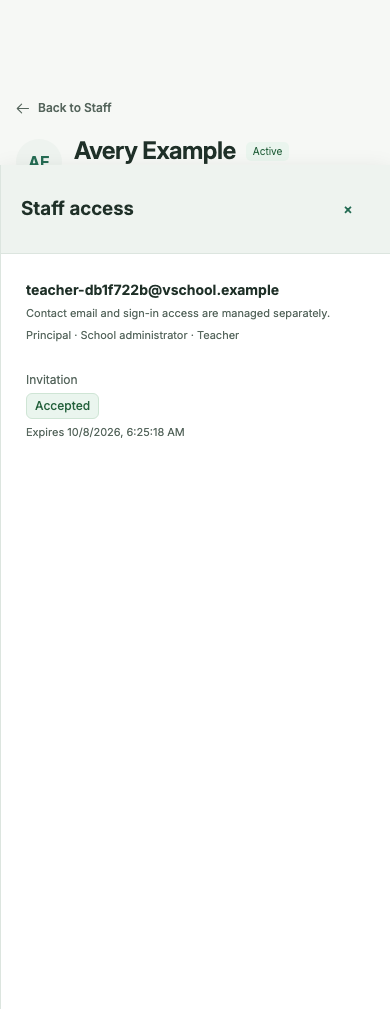
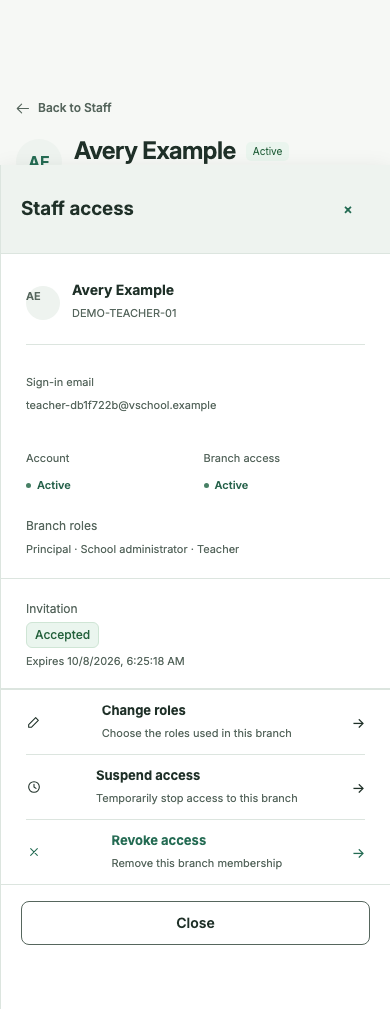
Complete Staff profile access composition

diff --git a/components/staff-portal-management.tsx b/components/staff-portal-management.tsx
@@ -3,16 +3,47 @@
 import {useState} from 'react';
 import type {StaffProfileAccess} from '@/shared/contracts/people';
 import {StaffInvitationManagement} from '@/components/staff-invitation-management';
-import {Button} from '@/components/ui/primitives';
+import {useCommand} from '@/components/access-management';
+import {Checkbox,TextArea} from '@/components/ui/forms';
+import {Avatar,Button,ButtonLink} from '@/components/ui/primitives';
 import {Dialog} from '@/components/ui/interactive';
 
-export function StaffPortalManagement({employeeId,access}:{employeeId:string;access:StaffProfileAccess}){
- const [open,setOpen]=useState(false);
- const trigger=access.state==='NO_ACCOUNT'?'Set up access':access.state==='PENDING'?'View invitation':'View access';
+const roleLabel={SCHOOL_ADMIN:'School administrator',TEACHER:'Teacher',PRINCIPAL:'Principal'} as const;
+type AccessAction='SET_ROLES'|'SUSPEND'|'REINSTATE'|'REVOKE';
+
+export function StaffPortalManagement({employeeId,employeeName,staffNumber,schoolId,access}:{employeeId:string;employeeName:string;staffNumber:string;schoolId:string;access:StaffProfileAccess}){
+ const [open,setOpen]=useState(false),[current,setCurrent]=useState(access),[step,setStep]=useState<'summary'|'change'|'review'>('summary'),[action,setAction]=useState<AccessAction>('SET_ROLES'),[roles,setRoles]=useState([...access.roles]),[reason,setReason]=useState('');
+ async function refresh(){const response=await fetch(`/api/v1/employees/${employeeId}/invitation`,{cache:'no-store'});if(!response.ok)throw new Error('Current staff access could not be loaded.');setCurrent(await response.json());}
+ const command=useCommand(refresh,intent=>`/api/v1/memberships/status/${intent.command}/${intent.key}?schoolId=${encodeURIComponent(schoolId)}`),disabled=command.busy||command.uncertain||command.denied;
+ const trigger=current.state==='NO_ACCOUNT'?'Set up access':current.state==='PENDING'?'View invitation':'View access';
+ const branchState=current.state==='ACTIVE'?'Active':current.state==='SUSPENDED'?'Suspended':current.state==='REVOKED'?'Revoked':current.state==='PENDING'?'Pending':'Linked';
+ const actionTitle=action==='SET_ROLES'?'Change roles':action==='SUSPEND'?'Suspend access':action==='REINSTATE'?'Reinstate access':'Revoke access';
+ const unchangedRoles=[...roles].sort().join('|')===[...current.roles].sort().join('|');
+ function begin(next:AccessAction){command.startNew();setAction(next);setRoles([...current.roles]);setReason('');setStep('change');}
+ function close(){if(command.uncertain)return;setOpen(false);setStep('summary');setReason('');}
+ function toggle(role:'SCHOOL_ADMIN'|'TEACHER',checked:boolean){setRoles(checked?[...new Set([...roles,role])]:roles.filter(item=>item!==role));}
+ async function save(){if(!current.membershipId||current.membershipVersion===null)return;const selectedRoles=action==='SET_ROLES'?roles:undefined,saved=await command.run({url:`/api/v1/memberships/${current.membershipId}?schoolId=${encodeURIComponent(schoolId)}`,method:'PATCH',command:'UpdateMembership',body:{payload:{action,...(selectedRoles?{roles:selectedRoles}:{}),reason},expectedVersion:current.membershipVersion}});if(saved){setStep('summary');setReason('');}}
  return <>
-  <Button variant="ghost" size="small" onClick={()=>setOpen(true)}>{trigger} <span aria-hidden="true">→</span></Button>
-  <Dialog drawer className="staff-reference-drawer staff-portal-drawer" title="Staff access" description="Review this staff member’s current account and invitation state." open={open} onClose={()=>setOpen(false)}>
-   <StaffInvitationManagement employeeId={employeeId} initial={access}/>
+  <Button variant="ghost" size="small" onClick={()=>{setCurrent(access);setStep('summary');setOpen(true);}}>{trigger} <span aria-hidden="true">→</span></Button>
+  <Dialog drawer className="staff-reference-drawer staff-portal-drawer" title={step==='summary'?'Staff access':step==='review'?'Review role changes':actionTitle} description="Review this staff member’s current account and invitation state." open={open} onClose={close}>
+   {step==='summary'?<div className="staff-access-summary staff-profile-access-summary">
+    <div className="staff-access-person"><Avatar name={employeeName}/><div><strong>{employeeName}</strong><span>{staffNumber}</span></div></div>
+    {current.state==='NO_ACCOUNT'?<><p className="muted small">No sign-in account is linked to this staff record.</p><ButtonLink href={`/admin/users/grant?employeeId=${employeeId}`}>Set up access</ButtonLink></>:<>
+     <p className="small muted">Sign-in email</p><p>{current.email}</p>
+     <dl className="staff-access-facts"><div><dt>Account</dt><dd><span className={`quiet-status ${current.state==='ACTIVE'?'good':current.state==='PENDING'?'warn':'none'}`}>{current.state==='PENDING'?'Pending activation':current.state==='REVOKED'?'Revoked':'Active'}</span></dd></div><div><dt>Branch access</dt><dd><span className={`quiet-status ${current.state==='ACTIVE'?'good':current.state==='PENDING'||current.state==='SUSPENDED'?'warn':'none'}`}>{branchState}</span></dd></div></dl>
+     {current.roles.length>0&&<div className="staff-access-roles"><span className="small muted">Branch roles</span><p>{current.roles.map(role=>roleLabel[role]).join(' · ')}</p></div>}
+     <StaffInvitationManagement employeeId={employeeId} initial={current} compact/>
+     {current.membershipId&&current.state!=='REVOKED'&&<div className="staff-access-actions staff-profile-access-actions"><button disabled={disabled} onClick={()=>begin('SET_ROLES')}><svg aria-hidden="true" viewBox="0 0 24 24"><path d="m4 16 10.5-10.5 4 4L8 20H4v-4Z"/></svg><span><strong>Change roles</strong><small>Choose the roles used in this branch</small></span><span aria-hidden="true">→</span></button>{current.state==='SUSPENDED'?<button disabled={disabled} onClick={()=>begin('REINSTATE')}><svg aria-hidden="true" viewBox="0 0 24 24"><circle cx="12" cy="12" r="8"/><path d="M12 8v4l3 2"/></svg><span><strong>Reinstate access</strong><small>Restore this branch membership</small></span><span aria-hidden="true">→</span></button>:<button disabled={disabled} onClick={()=>begin('SUSPEND')}><svg aria-hidden="true" viewBox="0 0 24 24"><circle cx="12" cy="12" r="8"/><path d="M12 8v4l3 2"/></svg><span><strong>Suspend access</strong><small>Temporarily stop access to this branch</small></span><span aria-hidden="true">→</span></button>}<button className="dangerlink" disabled={disabled} onClick={()=>begin('REVOKE')}><svg aria-hidden="true" viewBox="0 0 24 24"><path d="m7 7 10 10M17 7 7 17"/></svg><span><strong>Revoke access</strong><small>Remove this branch membership</small></span><span aria-hidden="true">→</span></button></div>}
+    </>}
+    <div className="drawer-actions"><Button variant="secondary" onClick={close}>Close</Button></div>
+   </div>:step==='change'?<form className="staff-profile-access-form" onSubmit={event=>{event.preventDefault();if(action==='SET_ROLES'){setStep('review');return;}void save();}}>
+    {command.notice}
+    <div className="staff-drawer-person"><Avatar name={employeeName}/><div><strong>{employeeName}</strong><span>{staffNumber}</span></div></div>
+    <p className="staff-access-consequence">{action==='SET_ROLES'?'Review the roles this account will have in this branch.':action==='SUSPEND'?'Sign-in to this branch will be blocked. Employment and teaching assignments remain unchanged.':action==='REINSTATE'?(current.state==='ACTIVE'?'Branch access will become active. Employment is unchanged.':'Branch access will remain pending until the account is activated. Employment is unchanged.'):'Branch access will be removed. The Staff record and other branches are unchanged.'}</p>
+    {action==='SET_ROLES'&&<fieldset><legend>Branch roles</legend><Checkbox label="School administrator" checked={roles.includes('SCHOOL_ADMIN')} disabled={disabled} onChange={event=>toggle('SCHOOL_ADMIN',event.target.checked)}/><Checkbox label="Teacher" checked={roles.includes('TEACHER')} disabled={disabled} onChange={event=>toggle('TEACHER',event.target.checked)}/>{roles.includes('PRINCIPAL')&&<p className="small muted">Principal access is retained and managed through its approved workspace.</p>}</fieldset>}
+    <TextArea label="Reason" required maxLength={500} value={reason} disabled={disabled} onChange={event=>setReason(event.target.value)}/>
+    <div className="drawer-actions"><Button type="button" variant="secondary" disabled={command.busy||command.uncertain} onClick={()=>setStep('summary')}>Back</Button><Button type="submit" loading={command.busy} disabled={disabled||(action==='SET_ROLES'&&(!roles.length||unchangedRoles))||!reason.trim()}>{action==='SET_ROLES'?'Review changes':actionTitle}</Button></div>
+   </form>:<div className="staff-profile-access-review"><div className="staff-drawer-person"><Avatar name={employeeName}/><div><strong>{employeeName}</strong><span>{staffNumber}</span></div></div>{command.notice}<dl className="staff-access-review-facts"><div><dt>Current roles</dt><dd>{current.roles.map(role=>roleLabel[role]).join(' · ')}</dd></div><div><dt>Proposed roles</dt><dd>{roles.map(role=>roleLabel[role]).join(' · ')}</dd></div><div><dt>Reason</dt><dd>{reason}</dd></div></dl><div className="drawer-actions"><Button variant="secondary" disabled={command.busy||command.uncertain} onClick={()=>setStep('change')}>Back</Button><Button loading={command.busy} disabled={disabled} onClick={()=>void save()}>Save</Button></div></div>}
   </Dialog>
  </>;
 }

diff --git a/app/admin/teachers/[id]/page.tsx b/app/admin/teachers/[id]/page.tsx
@@ -6,6 +6,7 @@ import {StaffPortalManagement} from '@/components/staff-portal-management';
 import {StaffAssignmentsAction} from '@/components/staff-profile-actions';
 import {getIdentity} from '@/lib/server/auth';
 import {peopleGateway} from '@/lib/server/people';
+import {accountGateway} from '@/lib/server/access';
 
 export const dynamic='force-dynamic';
 const category=(value:string)=>value==='ADMINISTRATION'?'Administration':value==='SUPPORT'?'Support':value==='UNCLASSIFIED'?'Unclassified':'Teaching';
@@ -13,8 +14,8 @@ const date=(value:string|null)=>value?new Intl.DateTimeFormat('en-GB',{day:'nume
 function safeReturn(value:string|undefined){if(!value)return '/admin/teachers';try{const url=new URL(value,'http://vschool.local');if(url.pathname!=='/admin/teachers')return '/admin/teachers';const output=new URLSearchParams();for(const key of ['q','by','category','categories','employment','employments','sort','order','cursor','limit']){const item=url.searchParams.get(key);if(item)output.set(key,item.slice(0,2048));}return `/admin/teachers${output.size?`?${output}`:''}`;}catch{return '/admin/teachers';}}
 
 export default async function StaffProfilePage({params,searchParams}:{params:Promise<{id:string}>;searchParams:Promise<{returnTo?:string|string[]}>}){
- const identity=await getIdentity(),{id}=await params,query=await searchParams,returnTo=safeReturn(Array.isArray(query.returnTo)?undefined:query.returnTo);let profile:Awaited<ReturnType<typeof peopleGateway.staffProfile>>;
- try{profile=await peopleGateway.staffProfile(identity,id);}catch(error){if(error instanceof AccessError&&error.code==='UNAUTHENTICATED')redirect('/sign-in');if(error instanceof AccessError&&(error.code==='NOT_FOUND'||error.code==='FORBIDDEN'))notFound();return <BrandSurface><main id="main-content" className="container page-space"><Alert tone="danger" title="Staff profile unavailable">Refresh the Staff directory and try again. No access or teaching state has been inferred.</Alert></main></BrandSurface>;}
+ const identity=await getIdentity(),{id}=await params,query=await searchParams,returnTo=safeReturn(Array.isArray(query.returnTo)?undefined:query.returnTo);let profile:Awaited<ReturnType<typeof peopleGateway.staffProfile>>,home:Awaited<ReturnType<typeof accountGateway.getHome>>;
+ try{[profile,home]=await Promise.all([peopleGateway.staffProfile(identity,id),accountGateway.getHome(identity)]);}catch(error){if(error instanceof AccessError&&error.code==='UNAUTHENTICATED')redirect('/sign-in');if(error instanceof AccessError&&(error.code==='NOT_FOUND'||error.code==='FORBIDDEN'))notFound();return <BrandSurface><main id="main-content" className="container page-space"><Alert tone="danger" title="Staff profile unavailable">Refresh the Staff directory and try again. No access or teaching state has been inferred.</Alert></main></BrandSurface>;}
  const active=profile.employee.employment.status==='ACTIVE',academics=profile.academics.status==='AVAILABLE'?profile.academics.value:null,access=profile.access.status==='AVAILABLE'?profile.access.value:null,currentAssignments=academics?.assignments.filter(item=>item.current)??[];
  return <BrandSurface><main id="main-content" className="container page-space"><PageStack className="staff-profile-page">
   <Link className="staff-profile-back" href={returnTo}><svg aria-hidden="true" viewBox="0 0 24 24"><path d="m9 5-7 7 7 7M2 12h18"/></svg>Back to Staff</Link>
@@ -24,7 +25,7 @@ export default async function StaffProfilePage({params,searchParams}:{params:Pro
     <section className="staff-record-section"><SectionHeader title="Personal details"/><dl className="staff-profile-facts"><div><dt>Full name</dt><dd>{profile.person.displayName}</dd></div><div><dt>Contact email</dt><dd>{profile.person.contactEmail??'Not recorded'}</dd></div></dl></section>
     <section className="staff-record-section"><SectionHeader title="Employment"/><dl className="staff-profile-facts"><div><dt>Employee code</dt><dd>{profile.employee.staffNumber}</dd></div><div><dt>Staff category</dt><dd>{category(profile.employee.category)}</dd></div><div><dt>Joining date</dt><dd>{date(profile.employee.employment.from)}</dd></div><div><dt>Employment</dt><dd>{active?'Current':`Ended ${date(profile.employee.employment.to)}`}</dd></div></dl></section>
     <section className="staff-record-section"><SectionHeader title="Teaching assignments" actions={academics?(currentAssignments.length?<StaffAssignmentsAction assignments={currentAssignments} employeeId={id} employeeName={profile.person.displayName} staffNumber={profile.employee.staffNumber} eligibility={academics.eligibility} eligibilityPeriod={academics.eligibilityPeriod}/>:<ButtonLink href={`/admin/teachers/${id}/eligibility`} variant="ghost" size="small">Review eligibility</ButtonLink>):undefined}/>{profile.academics.status==='UNAVAILABLE'?<div className="padded"><p className="muted">Teaching information is unavailable for this branch or your current access.</p></div>:<div className="staff-profile-list">{currentAssignments.map(item=><div key={item.assignmentId}><strong>{item.sectionName} · {item.subjectName}</strong></div>)}{currentAssignments.length===0&&<div><strong>{academics!.eligibility==='ENABLED'?'Eligible to teach':academics!.eligibility==='DISABLED'?'Teaching disabled':'Not enabled for teaching'}</strong><span className="muted small">{academics!.eligibilityPeriod?`${date(academics!.eligibilityPeriod.validFrom)} to ${academics!.eligibilityPeriod.validTo?date(academics!.eligibilityPeriod.validTo):'Current'}`:'No dated eligibility recorded'}</span></div>}</div>}</section>
-    <section id="staff-portal" className="staff-record-access"><span className="staff-portal-symbol" aria-hidden="true"><svg viewBox="0 0 24 24"><circle cx="9" cy="8" r="3"/><path d="M3.5 19c.6-3.8 2.4-5.7 5.5-5.7s4.9 1.9 5.5 5.7M18 8v6M15 11h6"/></svg></span><div><h2>Staff portal</h2><p>{access?.state==='NO_ACCOUNT'?'Not set up':access?.state==='PENDING'?'Invitation pending':access?.state==='ACTIVE'?'Active':access?.state==='SUSPENDED'?'Suspended':access?.state==='REVOKED'?'Revoked':profile.access.status==='UNAVAILABLE'?'Unavailable':'Linked'}</p></div>{profile.access.status==='AVAILABLE'&&<StaffPortalManagement employeeId={id} access={access!}/>}</section>
+    <section id="staff-portal" className="staff-record-access"><span className="staff-portal-symbol" aria-hidden="true"><svg viewBox="0 0 24 24"><circle cx="9" cy="8" r="3"/><path d="M3.5 19c.6-3.8 2.4-5.7 5.5-5.7s4.9 1.9 5.5 5.7M18 8v6M15 11h6"/></svg></span><div><h2>Staff portal</h2><p>{access?.state==='NO_ACCOUNT'?'Not set up':access?.state==='PENDING'?'Invitation pending':access?.state==='ACTIVE'?'Active':access?.state==='SUSPENDED'?'Suspended':access?.state==='REVOKED'?'Revoked':profile.access.status==='UNAVAILABLE'?'Unavailable':'Linked'}</p></div>{profile.access.status==='AVAILABLE'&&<StaffPortalManagement employeeId={id} employeeName={profile.person.displayName} staffNumber={profile.employee.staffNumber} schoolId={home.scope.schoolId} access={access!}/>}</section>
    </div>
    <details className="staff-record-history"><summary>Recent activity</summary>{profile.history.length?<div className="staff-profile-list">{profile.history.map((item,index)=><div key={`${item.kind}-${item.occurredOn}-${index}`}><strong>{item.label}</strong><span className="muted small">{date(item.occurredOn)}</span></div>)}</div>:<p className="padded muted">No recorded People history.</p>}</details>
   </div>

diff --git a/app/globals.css b/app/globals.css
@@ -1704,6 +1704,7 @@ a:focus-visible,button:focus-visible,input:focus-visible,select:focus-visible,te
 .staff-filter-drawer{display:block;min-height:0;padding:0}.staff-drawer-body{padding:26px 28px}.staff-drawer-body fieldset{display:grid;gap:0;margin:0 0 24px;padding:0;border:0}.staff-drawer-body legend{margin:0 0 12px;padding:0 2px;font-size:12px;font-weight:650;line-height:18px}.staff-drawer-body .check-control{min-height:38px;padding:8px 0;font-size:12px;line-height:18px}.staff-drawer-body .radio-group .check-control{min-height:35px}.staff-drawer-body .check-control input{width:16px;height:16px;margin:3px 3px 3px 4px}.staff-drawer-body .radio-group .check-control input{margin:3px 3px 0 5px}.staff-drawer-rule{height:1px;margin:22px 0;background:var(--vs-border)}.staff-filter-drawer>.drawer-actions{justify-content:flex-end;margin:0;padding:18px 28px;border-top:1px solid var(--vs-border);background:var(--vs-surface-subtle)}.staff-filter-drawer>.drawer-actions .btn{width:auto;min-height:36px;padding:7px 13px;border-radius:6px;font-size:13px;font-weight:550;line-height:19.5px}.staff-filter-drawer>.drawer-actions .btn-secondary{border-color:var(--vs-border)}
 .staff-reference-drawer.dialog.drawer{width:min(470px,100vw);max-width:none;border-radius:0}.staff-reference-drawer .drawer-header{min-height:94px;padding:27px 28px 22px;background:var(--vs-surface-subtle)}.staff-reference-drawer .drawer-header h2{font-size:19px;font-weight:650;line-height:28px}.staff-reference-drawer .drawer-close{width:44px;height:44px;min-height:44px;padding:10px;border:0;border-radius:0;background:transparent;flex:0 0 44px}
 .staff-access-drawer .drawer-body,.staff-portal-drawer .drawer-body{overflow-y:auto;padding:25px}.staff-access-drawer form{display:grid;gap:18px}.staff-access-drawer .form-actions{margin:auto -25px -25px;padding:18px 24px;background:var(--vs-surface-subtle);border-top:1px solid var(--vs-border)}
+.staff-profile-access-summary{display:block;padding:0}.staff-profile-access-summary>.staff-access-person{padding-bottom:20px;border-bottom:1px solid var(--vs-border)}.staff-profile-access-summary>.small.muted{margin:20px 0 4px}.staff-profile-access-summary>p:not(.small){margin:0 0 18px}.staff-access-roles{margin:0 0 18px}.staff-access-roles p{margin:4px 0 0}.staff-profile-access-summary>.staff-invitation-management{margin:0 -25px;border-top:1px solid var(--vs-border)}.staff-profile-access-summary>.staff-invitation-management>.alert{margin:18px 25px}.staff-profile-access-summary>.staff-invitation-management>.staff-invitation-state{padding:18px 25px;border-bottom:1px solid var(--vs-border)}.staff-profile-access-summary>.staff-access-actions{margin-inline:-25px;padding-inline:25px}.staff-profile-access-actions>button{display:grid;grid-template-columns:18px minmax(0,1fr) auto}.staff-profile-access-actions>button>svg{width:16px;height:16px;fill:none;stroke:currentColor;stroke-width:1.6;stroke-linecap:round;stroke-linejoin:round}.staff-profile-access-summary>.drawer-actions{margin:0 -25px -25px}.staff-profile-access-form{display:grid;gap:18px;min-height:calc(100dvh - 144px)}.staff-profile-access-form fieldset{display:grid;gap:10px;margin:0;padding:0;border:0}.staff-profile-access-form legend{margin-bottom:10px;font-weight:600}.staff-profile-access-form>.drawer-actions{margin:auto -25px -25px}.staff-access-consequence{margin:0;color:var(--vs-text-muted);font-size:12px;line-height:19px}.staff-profile-access-review{display:flex;min-height:calc(100dvh - 144px);flex-direction:column}.staff-access-review-facts{display:grid;gap:18px;margin:0;padding:20px 0}.staff-access-review-facts dt{margin-bottom:4px;color:var(--vs-text-muted);font-size:11px}.staff-access-review-facts dd{margin:0;font-size:13px;font-weight:600}.staff-profile-access-review>.drawer-actions{margin:auto -25px -25px}
 .quiet-status{display:inline-flex;align-items:center;gap:6px;color:var(--vs-text-muted);font-size:11px;line-height:17px}.quiet-status::before{width:5px;height:5px;flex:0 0 5px;border-radius:50%;background:#85938b;content:""}.quiet-status.good{color:#28634c}.quiet-status.good::before{background:#478065}.quiet-status.warn{color:#8a6126}.quiet-status.warn::before{background:#af843f}.quiet-status.none::before{background:#b6c0b8}
 .staff-profile-page{width:min(100%,884px);gap:0;font-size:14px;line-height:21px}
 .staff-profile-back{display:inline-flex;align-items:center;gap:7px;min-height:30px;margin:0 0 12px;color:var(--vs-text-muted);font-size:12px;font-weight:550;line-height:18px;text-decoration:none}.staff-profile-back svg{width:15px;height:15px;fill:none;stroke:currentColor;stroke-width:1.7;stroke-linecap:round;stroke-linejoin:round}

diff --git a/components/staff-invitation-management.tsx b/components/staff-invitation-management.tsx
@@ -11,7 +11,7 @@ const roleLabel={SCHOOL_ADMIN:'School administrator',TEACHER:'Teacher',PRINCIPAL
 const tone=(state:NonNullable<StaffProfileAccess['invitation']>['state'])=>state==='SENT'||state==='CONSUMED'?'success':state==='FAILED'||state==='EXPIRED'?'warning':'neutral';
 async function payload<T>(response:Response):Promise<T>{const value=await response.json().catch(()=>({}));if(!response.ok)throw new Error(typeof value.message==='string'?value.message:'Unable to complete the change.');return value as T;}
 
-export function StaffInvitationManagement({employeeId,initial}:{employeeId:string;initial:StaffProfileAccess}){
+export function StaffInvitationManagement({employeeId,initial,compact=false}:{employeeId:string;initial:StaffProfileAccess;compact?:boolean}){
  const [access,setAccess]=useState(initial),[open,setOpen]=useState(false),[reason,setReason]=useState(''),[busy,setBusy]=useState(false),[attempt,setAttempt]=useState<Attempt|null>(null),[unknown,setUnknown]=useState(false),[savedRefresh,setSavedRefresh]=useState(false),[recoveryLock,setRecoveryLock]=useState(false),[confirmed,setConfirmed]=useState<Result|null>(null),[message,setMessage]=useState(''),[error,setError]=useState('');
  const invitation=access.invitation,canResend=!recoveryLock&&!unknown&&(invitation?.state==='FAILED'||invitation?.state==='EXPIRED');
  async function refresh(){setBusy(true);setError('');try{setAccess(await payload<StaffProfileAccess>(await fetch(`/api/v1/employees/${employeeId}/invitation`,{cache:'no-store'})));setSavedRefresh(false);setRecoveryLock(false);setConfirmed(null);setMessage('Invitation status refreshed.');}catch(cause){setError(cause instanceof Error?cause.message:'Current invitation status is unavailable.');}finally{setBusy(false);}}
@@ -23,7 +23,7 @@ export function StaffInvitationManagement({employeeId,initial}:{employeeId:strin
  return <div className="staff-invitation-management">
   {message&&<Alert tone="success" title="Invitation updated" onDismiss={savedRefresh?undefined:()=>setMessage('')}>{message}</Alert>}
   {savedRefresh&&<Alert tone="warning" title="Invitation saved; current status unavailable">The replacement was confirmed. Refreshing checks the current state and will not send another invitation.<span className="alert-actions"><Button size="small" variant="secondary" loading={busy} onClick={()=>void refresh()}>Refresh saved view</Button></span></Alert>}
-  <div className="staff-access-summary"><strong>{access.state==='NO_ACCOUNT'?'No account':access.email??'Linked account'}</strong><p className="muted small">Contact email and sign-in access are managed separately.</p>{access.roles.length>0&&<p className="small">{access.roles.map(role=>roleLabel[role]).join(' · ')}</p>}</div>
+  {!compact&&<div className="staff-access-summary"><strong>{access.state==='NO_ACCOUNT'?'No account':access.email??'Linked account'}</strong><p className="muted small">Contact email and sign-in access are managed separately.</p>{access.roles.length>0&&<p className="small">{access.roles.map(role=>roleLabel[role]).join(' · ')}</p>}</div>}
   {invitation&&<div className="staff-invitation-state"><div><span className="small muted">Invitation</span><p><Badge tone={tone(invitation.state)}>{confirmed?label[confirmed.deliveryStatus]:label[invitation.state]}</Badge></p><p className="small muted">Expires {new Date(invitation.expiresAt).toLocaleString()}</p>{invitation.deliveryFailureReason&&<p className="small">{invitation.deliveryFailureReason}</p>}</div>{canResend&&<Button size="small" variant="secondary" onClick={()=>{setReason('');setError('');setAttempt(null);setOpen(true);}}>Review resend</Button>}</div>}
   <Dialog title="Resend staff invitation" description="Review the current failed or expired invitation before creating a replacement." open={open} onClose={close}>
    {error&&<Alert tone="danger" title={unknown?'Outcome not confirmed':'Invitation not resent'}>{error}{unknown&&attempt&&<span className="alert-actions"><Button size="small" variant="secondary" loading={busy} onClick={()=>void submit(attempt)}>Retry unchanged resend</Button></span>}</Alert>}

diff --git a/components/access-management.tsx b/components/access-management.tsx
@@ -4,13 +4,13 @@ import type {ReactNode} from "react";
 import type { RoleCode } from "@/shared/contracts/access";
 import type { CampusDto,SchoolSettings,StaffMember,StaffPage } from "@/shared/contracts/access-management";
 import type {EmployeeProfile} from "@/shared/contracts/people";
-import { TextField,SelectField,TextArea,Checkbox } from "./ui/forms";
+import { TextField,TextArea,Checkbox } from "./ui/forms";
 import { Alert,Avatar,Badge,Button,Card,EmptyState,PageHeader,PageStack,SectionHeader,Skeleton } from "./ui/primitives";
 import { DataTable,Dialog } from "./ui/interactive";
 import { ServerTable } from "./ui/server-table";
 import {AdminLocalNavigation} from "./admin-local-navigation";
 type Intent={url:string;method:string;body:unknown;key:string;command?:'CreateMembership'|'UpdateMembership'};
-function useCommand(refresh:()=>Promise<void>,statusUrl?:(intent:Intent)=>string,retainCompleted=false){
+export function useCommand(refresh:()=>Promise<void>,statusUrl?:(intent:Intent)=>string,retainCompleted=false){
  const intent=useRef<Intent|null>(null),feedback=useRef<HTMLDivElement>(null);
  const [busy,setBusy]=useState(false),[phase,setPhase]=useState<'idle'|'unknown'|'refresh'>('idle'),[message,setMessage]=useState(""),[errorCode,setErrorCode]=useState(""),[success,setSuccess]=useState(false),[completed,setCompleted]=useState(false),[denied,setDenied]=useState(false);
  async function refreshCommitted(){setBusy(true);try{await refresh();setPhase('idle');setSuccess(true);setMessage('Changes saved.');}catch{setPhase('refresh');setSuccess(true);setMessage('Changes were saved, but the latest view could not be loaded.');}finally{setBusy(false);requestAnimationFrame(()=>feedback.current?.focus());}}

diff --git a/docs/evidence/staff-pinpoint-followup-2026-10-23/README.md b/docs/evidence/staff-pinpoint-followup-2026-10-23/README.md
@@ -4,8 +4,8 @@ Human visual acceptance remains **PENDING**.
 
 ## Candidate and reference
 
-- Working-tree parent: `26cb7cf6b6d085c2cfcb471e8f15e0563f890317`
-- Production build ID: `DQXxoABx6nZGUPkMteQke`
+- Implementation checkpoints: `d008c582b27264991742b206ab36cb1e944e3185` plus the current focused follow-up
+- Production build ID: `a8-67194pJaxsARHLe-eU`
 - Demo: `http://127.0.0.1:3400`
 - Application routes: `/admin/teachers` and `/admin/teachers/[employeeId]`
 - Frozen reference: `docs/execution/STAFF_REVIEW/references/approved-20261022/mock/index.html`
@@ -20,20 +20,23 @@ Chromium rendered both candidates at 100% browser zoom and device-pixel ratio 1.
 - The Profile's current assignments are compact rows, while dates and eligibility remain available in the dedicated assignments drawer.
 - The assignments drawer now follows the frozen composition: Staff identity, compact assignment/status rows and a single Academics handoff. The unapproved extra footer action was removed; header Close and Escape remain available and restore the opener.
 - Portal triggers are state-specific: `Set up access`, `View invitation` or `View access`. The pending-invitation and active-account drawer heading is the reference label `Staff access`.
+- Active Staff access now opens the approved Profile-local composition rather than redirecting to the general access directory. It shows the authoritative sign-in identity, account/branch state, roles and invitation state, then exposes the existing guarded Change roles, Suspend/Reinstate and Revoke operations.
+- Role changes follow the reference's staged interaction: edit roles and reason, review the current/proposed roles, then save. The form reuses the Access owner's existing expected-version, exact-key recovery and authorization path; the visual review did not submit a mutation.
+- Action icons are the reference-sized 16px outline icons, and access actions use compact divided rows at desktop and mobile widths.
 - Real production invitation and access states remain authoritative. The reference's fictional account, role and invitation values were not copied.
 
 [computed-measurements.json](computed-measurements.json) records final border, size, font and overflow measurements. [invitation-state.json](invitation-state.json) records the pending-invitation heading comparison. `reference-*` and `application-*` captures pair Filter, Sort, Profile, assignments, access and invitation states at both viewports.
 
 ## Functional boundary
 
-The frozen Profile shows Personal and Employment Edit actions. They remain absent because `PD-STF-02` is still unapproved. The exact unresolved contract covers mutable Person and Employee fields, their separate correction authorities, reason/history rules and the safe start-date boundary. Adding visually enabled Edit controls before that decision would create a non-functional or unauthorized action. Existing Profile reads, dated eligibility, invitation review/resend, access management destinations, exact replay, version checks and owner authorization remain intact.
+The frozen Profile shows Personal and Employment Edit actions. They remain absent because `PD-STF-02` is still unapproved. The exact unresolved contract covers mutable Person and Employee fields, their separate correction authorities, reason/history rules and the safe start-date boundary. Adding visually enabled Edit controls before that decision would create a non-functional or unauthorized action. Existing Profile reads, dated eligibility, invitation review/resend, access management, exact replay, version checks and owner authorization remain intact.
 
 ## Verification
 
-- `pnpm exec eslint components/staff-profile-actions.tsx components/staff-portal-management.tsx 'app/admin/teachers/[id]/page.tsx'` — passed.
-- `env NODE_OPTIONS=--max-old-space-size=4096 pnpm build` — passed; build `DQXxoABx6nZGUPkMteQke`.
-- Focused local Playwright comparison — passed at 1440×1000 and 390×844 for Filter, Sort, Profile, assignment and access drawers, including Escape closure and no root overflow.
+- `pnpm exec eslint components/access-management.tsx components/staff-invitation-management.tsx components/staff-portal-management.tsx 'app/admin/teachers/[id]/page.tsx'` — passed after removing one unused import.
+- `env NODE_OPTIONS=--max-old-space-size=4096 pnpm build` — passed; build `a8-67194pJaxsARHLe-eU`.
+- Focused local Playwright comparison — passed at 1440×1000 and 390×844 for Filter, Sort, Profile, assignment, access summary, role-edit and role-review states, including Escape closure and no root overflow.
 - Focused pending-invitation comparison — passed; application and reference both render the `Staff access` drawer title at both viewports.
 - Direct screenshot inspection — completed for the paired captures. The remaining Edit-control difference is the explicit `PD-STF-02` contract boundary above.
 
-No backend behavior, authorization rule, schema, migration, fixture or database state changed.
+No backend behavior, authorization rule, schema, migration, fixture or database state changed. The Profile composition calls the existing Access owner APIs rather than introducing a new authority path.

diff --git a/docs/modules/people/CURRENT_STATE.md b/docs/modules/people/CURRENT_STATE.md
@@ -156,4 +156,4 @@ The bounded `/admin/teachers` Filter/Sort drawers and `/admin/teachers/[id]` Pro
 
 ## Staff Profile and Filter/Sort follow-up — 23 October 2026
 
-The Staff Filter and Sort triggers and drawer Cancel actions now compute to a 1px pale theme border, matching the frozen reference rather than the previously inherited dark secondary outline. The Profile's assignment drawer now contains the approved identity and compact assignment composition with no extra footer action, and pending invitation state uses the reference's `View invitation` trigger with `Staff access` drawer title. Final current-build pairs were directly inspected at 1440×1000 and 390×844. Production data and owner behavior remain authoritative. Personal and Employment Edit controls remain excluded behind unapproved PD-STF-02; no fake action was added. Evidence: [Staff pinpoint follow-up](../../evidence/staff-pinpoint-followup-2026-10-23/README.md). Human visual acceptance remains PENDING.
+The Staff Filter and Sort triggers and drawer Cancel actions now compute to a 1px pale theme border, matching the frozen reference rather than the previously inherited dark secondary outline. The Profile's assignment drawer now contains the approved identity and compact assignment composition with no extra footer action, and pending invitation state uses the reference's `View invitation` trigger with `Staff access` drawer title. Active access is composed inside the Profile with authoritative identity/status facts and the existing guarded Change roles, Suspend/Reinstate and Revoke operations; role changes use the reference's edit → review → save stages while retaining the Access owner's expected-version, exact-key recovery and live authorization behavior. Final build `a8-67194pJaxsARHLe-eU` was directly inspected at 1440×1000 and 390×844, including access summary, role-edit and role-review states. Production data and owner behavior remain authoritative. Personal and Employment Edit controls remain excluded behind unapproved PD-STF-02; no fake action was added. Evidence: [Staff pinpoint follow-up](../../evidence/staff-pinpoint-followup-2026-10-23/README.md). Human visual acceptance remains PENDING.
